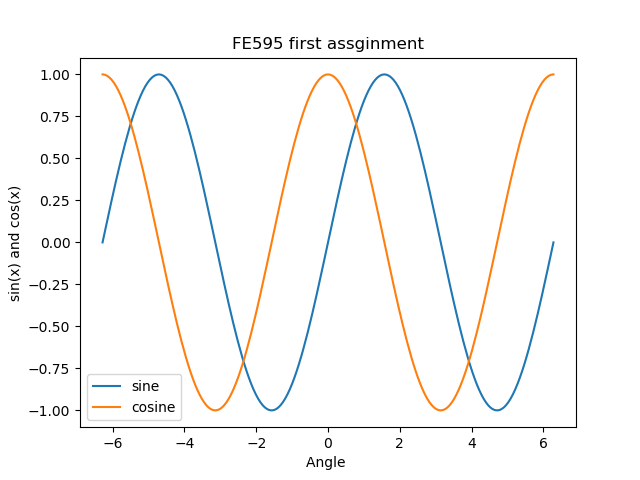
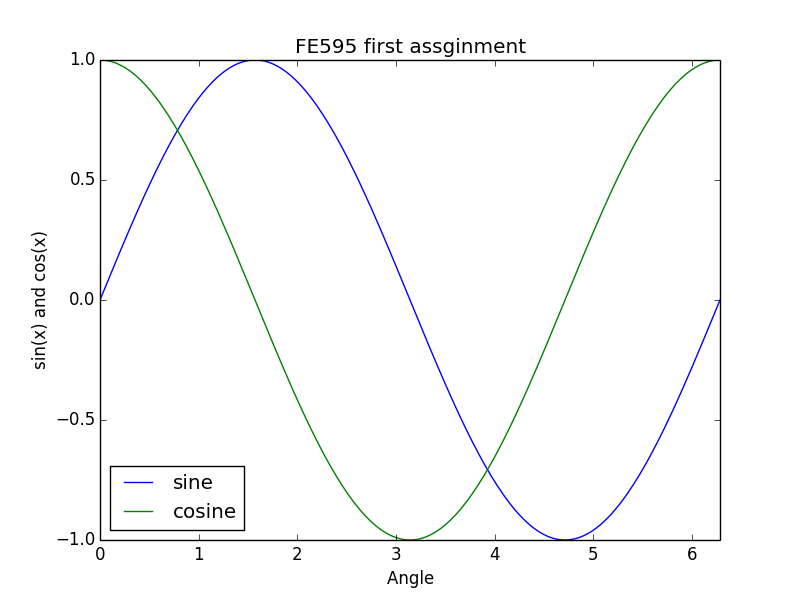
Add files via upload
change to one period.

diff --git a/FE595/HW1/PythonRefresher.py b/FE595/HW1/PythonRefresher.py
@@ -2,7 +2,7 @@ import numpy as np
 import matplotlib.pyplot as plt
 
 
-x = np.linspace(-2 * np.pi, 2 * np.pi, 201) # get the x- axis horizon
+x = np.linspace(0, 2 * np.pi, 201) # get the x- axis horizon
 plt.plot(x, np.sin(x), label='sine')  #plot sine
 plt.plot(x, np.cos(x), label='cosine') #plot cosine
 plt.legend(loc='best') # put the legend in the suitable place
